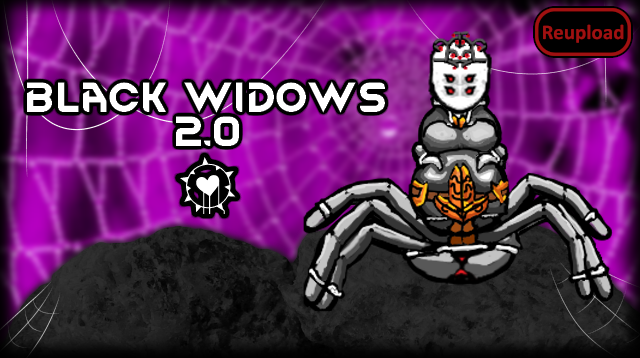
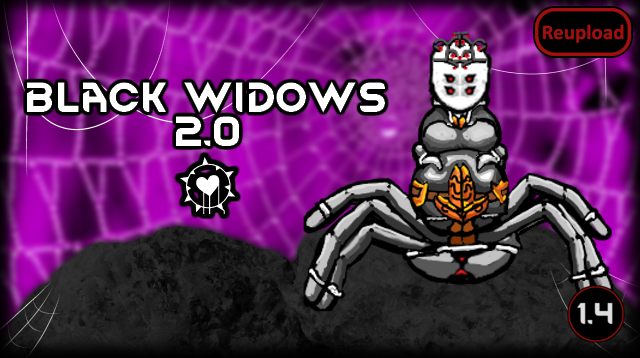
Last update, added end-of-life message

Changed region(s): [[0.875, 0.7989, 1.0, 0.9525]]

diff --git a/README.md b/README.md
@@ -8,7 +8,7 @@ https://steamcommunity.com/sharedfiles/filedetails/?id=1365540920
 - Added support for https://steamcommunity.com/sharedfiles/filedetails/?id=2451324814][SYR] Trait Value
 - Removed legacy HugsLib dependency
 
-![Image](https://i.imgur.com/pufA0kM.png)
+![Image](https://i.imgur.com/KFjAmff.png)
 
 	
 ![Image](https://i.imgur.com/Z4GOv8H.png)
@@ -70,10 +70,13 @@ Known Bugs:
 
 -  See if the the error persists if you just have this mod and its requirements active.
 -  If not, try adding your other mods until it happens again.
--  Post your error-log using https://steamcommunity.com/workshop/filedetails/?id=818773962]HugsLib and command Ctrl+F12
+-  Post your error-log using https://steamcommunity.com/workshop/filedetails/?id=818773962]HugsLib or the standalone https://steamcommunity.com/sharedfiles/filedetails/?id=2873415404]Uploader and command Ctrl+F12
 -  For best support, please use the Discord-channel for error-reporting.
 -  Do not report errors by making a discussion-thread, I get no notification of that.
 -  If you have the solution for a problem, please post it to the GitHub repository.
+-  Use https://github.com/RimSort/RimSort/releases/latest]RimSort to sort your mods
 
 
-https://steamcommunity.com/sharedfiles/filedetails/changelog/2243686995]Last updated 2023-05-18
+
+https://steamcommunity.com/sharedfiles/filedetails/changelog/2243686995]![Image](https://img.shields.io/github/v/release/emipa606/BlackWidows?label=latest%20version&style=plastic&color=9f1111&labelColor=black)
+
